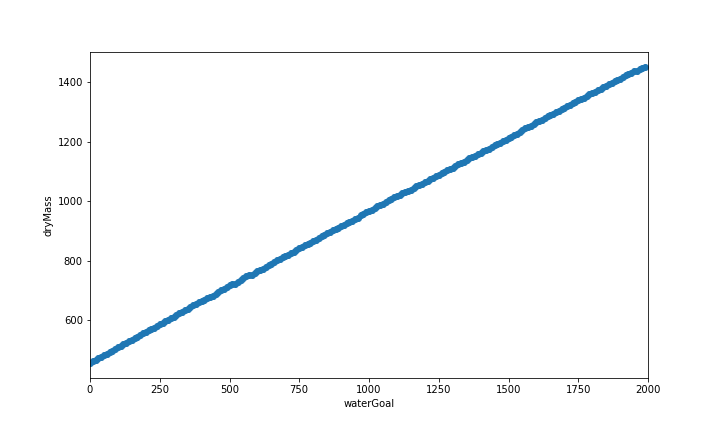
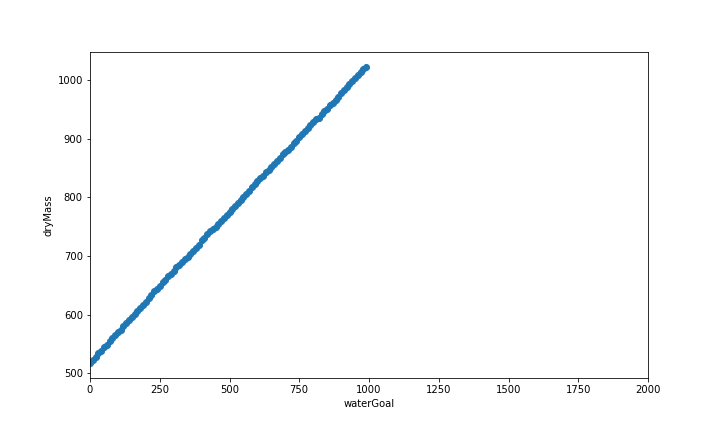
added electrolysis

diff --git a/financial-model/cashFlow.py b/financial-model/cashFlow.py
@@ -196,6 +196,25 @@ def spacecraftAttitudeControlCalculation(var):
     var['massAtt'] = var['attMass']
     return
 
+def spacecraftElectroysis(var):
+    if var['electrolysis'] > 0:
+        var['hydrogenProductionMass'] = var['massPropToEML1'] / 18.02 * 2.02
+        var['elecEnergy'] = var['hydrogenProductionMass'] * var['elecHydrogenEnergy']
+        if var['elecPower'] < (var['powerPerBatch'] * var['processSolarPanelHeatRatio']):
+            var['powerElec'] = var['powerPerBatch'] * var['processSolarPanelHeatRatio']
+            var['elecPowerMass'] = 0
+        else:
+            var['powerElec'] = var['elecPower']
+            var['elecPowerMass'] = var['powerElec']  / var['solarPanelEnergyDensity'] / var['solarPanelEfficiency'] / (1 / var['asteroidMaxSunDistance']**2) / (1-var['solarAnnualDegradation']/100)**(var['designYears'])
+        var['timeElectrolysis'] = var['elecEnergy'] / var['powerElec']  /24
+        var['massElectrolysis'] = var['elecPowerMass'] + var['elecMass']
+    else:
+        var['timeElectrolysis'] = 0
+        var['massElectrolysis'] = 0
+        var['powerElec'] = 0
+        var['elecPowerMass'] = 0
+    return
+
 def spacecraftPropulsionCalulation(var):
     if 'totalPropellant' in var:
         totalPropellant = var['totalPropellant']
@@ -210,7 +229,9 @@ def spacecraftPropulsionCalulation(var):
 def summationVariables(var):
     var['totalPayloadMass'] = var['totalProcessingMass'] + var['excavationMass']
     var['totalStayDays'] = var['totalProcessingTime'] + var['excavationTime']
-    var['dryMass'] = var['totalProcessingMass'] + var['excavationMass'] + var['baseSolarPanelMass'] + var['cdhMass'] +  var['massRadiator'] + var['massMLI'] + var['massGNC'] + var['massEngine'] + var['massTank'] + var['commMass'] + var['massAtt'] + var['batteryMass']
+    var['dryMass'] = var['totalProcessingMass'] + var['excavationMass'] + var['baseSolarPanelMass'] +\
+        var['cdhMass'] +  var['massRadiator'] + var['massMLI'] + var['massGNC'] + var['massEngine'] +\
+            var['massTank'] + var['commMass'] + var['massAtt'] + var['batteryMass'] + var['massElectrolysis']
     var['dryMass']  = var['dryMass'] * (1 + var['structureDryMassFactor'] + var['dryMassMargin'])
     var['netProp'] = var['waterGoal'] - var['massPropToAsteroid']
     var['launchMass'] = var['dryMass'] + var['launchedPropellant']
@@ -228,6 +249,7 @@ def simOrder(var):
     spacecraftAttitudeControlCalculation(var)
     spacecraftCommunicationsCalculation(var)
     spacecraftCommandAndDataHandlingCalculation(var)
+    spacecraftElectroysis(var)
     summationVariables(var)
     spacecraftStructureCalculation(var)
     return
@@ -458,7 +480,7 @@ if running == 'MonteCarlo':
 
 ### run a asingle variable run
 if running == 'Range':
-    outputs = singleVariableRange(inputs,'waterGoal', 1, 2000, .1)
+    outputs = singleVariableRange(inputs,'waterGoal', 1, 1000, .1)
     plottingOutputCorellations(outputs, y='excavationMass', x='waterGoal', xlim=[0,2000], saveFile=saveFolder+'exMass_vs_waterGoal')
     plottingOutputCorellations(outputs, y='powerPerBatch', x='waterGoal', xlim=[0,2000], saveFile=saveFolder+'powerPerBatch_vs_waterGoal')
     plottingOutputCorellations(outputs, y='totalProcessingMass', x='waterGoal', xlim=[0,2000], saveFile=saveFolder+'processMass_vs_waterGoal')
@@ -468,7 +490,7 @@ if running == 'Range':
     plottingOutputCorellations(outputs, y='percentPropSold', x='waterGoal', xlim=[0,2000], ylim=[-1,1], saveFile=saveFolder+'percentProp_vs_waterGoal')
     plottingOutputCorellations(outputs, y='rdte_costCer_totalCost', x='waterGoal', xlim=[0,2000],  saveFile=saveFolder+'rtd_Cost_vs_waterGoal')
     plottingOutputCorellations(outputs, y='tfu_costCer_totalCost', x='waterGoal', xlim=[0,2000],  saveFile=saveFolder+'tfu_Cost_vs_waterGoal')
-
+    plottingOutputCorellations(outputs, y='timeElectrolysis', x='waterGoal', xlim=[0,2000])
 ## Tornado Plots
 if running == 'Tornado':
     tornado('dryMass', inputs, 20)  
